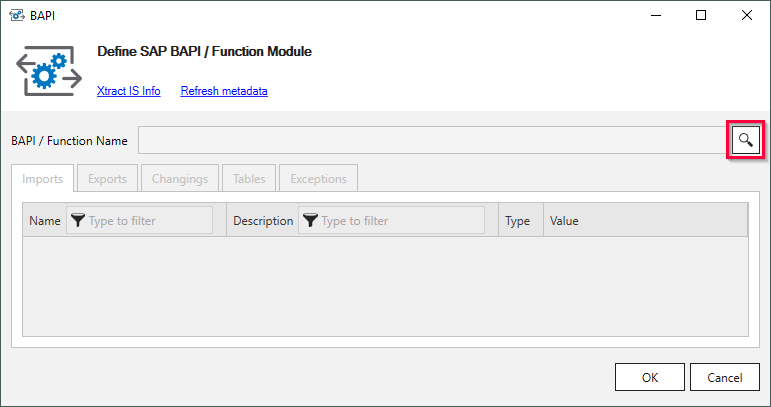
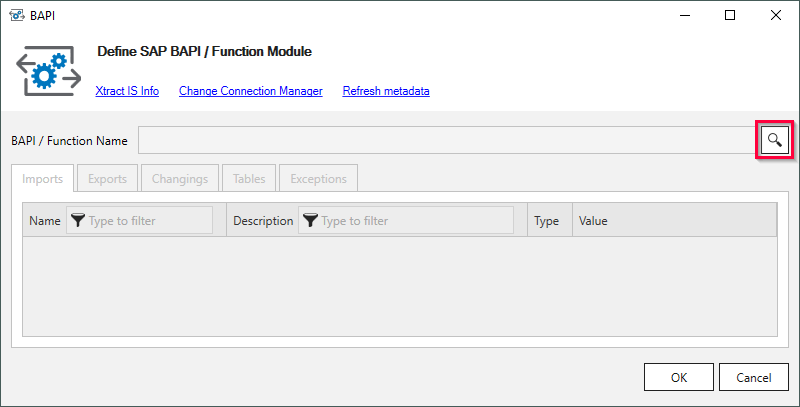
xfa bapi + related links

diff --git a/includes/components/bapis-and-function-modules/input-and-output.md b/includes/components/bapis-and-function-modules/input-and-output.md
@@ -132,19 +132,19 @@ To correctly map the data of an input table, the following requirements apply:
 
 - The column names of the input table must be the same as in the {{ bapi }} {{ component }}.
 - The data types in the input table must be the same as in the {{ bapi }} {{ component }}.
+Click **[:glasses-button:]** next to a table to look up column names and data types in the {{ bapi }} {{ component }}.
 
-Click **[:glasses-button:]** next to a table to look up column names and data types in the {{ bapi }} {{ component }}.<br>
-
-Follow the steps below to pass tables to {{ bapi }} at runtime:
+Follow the steps below to pass tables to the {{ bapi }} {{ component }} at runtime:
 1. Define or load the input tables into your workflow. 
 2. Connect the input tables to the {{ bapi }} {{ component }} using the input anchor "I". <br>
 The number that is displayed in the connection arrow is used to identify tables in the {{ bapi }} {{ component }}.<br>
-![bapi-input-table2](/img/content/xfa/bapi-input-table2.png){:class="img-responsive" }
+![bapi-input-table2](../../assets/images/{{ abbr }}/documentation/bapi/bapi-input-table.png){:class="img-responsive" }
 3. Open the {{ bapi }} {{ component }} and navigate to the table you want to parameterize.
 4. Select an input table from the dropdown list. <br>
-![bapi-input-table](/img/content/xfa/bapi-input-table.png){:class="img-responsive" }
+![bapi-input-table](../../assets/images/{{ abbr }}/documentation/bapi/bapi-input-table2.png){:class="img-responsive" }
 
-To remove an input table from a structure, click ![x-icon](/img/content/icons/x.png).
+To remove an input table from a structure, click **[:x-button:]**.
+
 {% endif %}
 
 
@@ -158,16 +158,3 @@ To ignore exceptions during runtime, deselect the exceptions in the **Exceptions
 
 ![BAPI Exceptions](../../assets/images/documentation/components/bapi/BAPI-Exceptions.png){:class="img-responsive"}
 
-{% if page.meta.product == "xtract-is" %}
-## Custom Properties of {{ bapi }}
-The *Custom Properties* are properties that are unique to the {{ component }}.
-When parameterizing the component using SSIS variables, the *Custom Properties* are overwritten.
-
-The *Custom Properties* of the {{ bapi }} {{ component }} are displayed in the "Properties" window.
-
-![BAPI Properties](../../assets/images/xis/documentation/bapi/bapi-properties.png)
-
-#### Commit Transaction 
-Some SAP Function Modules require calling the function module BAPI_TRANSACTION_COMMIT to successfully update data in the database, e.g., BAI_PO_CREATE. 
-To automatically call BAPI_TRANSACTION_COMMIT after the selected Function Module / BAPI is processed, aset this option to *true*.
-{% endif %}

diff --git a/includes/components/xfa-pass-parameters.md b/includes/components/xfa-pass-parameters.md
@@ -3,15 +3,16 @@
 
 Follow the steps below to replace {{ variables }} with actual values at runtime:
 
-1. [Create and assign runtime parameters](#create-runtime-parameters) in the Xtract {{ component }}.
-2. Close the Xtract {{ component }}.
+1. [Create and assign runtime parameters](#create-runtime-parameters) in the {{ page.meta.componentName }} {{ component }}.
+2. Close the {{ page.meta.componentName }} {{ component }}.
 3. Define the input values for the {{ variables }} :number-1:, e.g., single values or lists.<br>
 ![input](../../assets/images/xfa/documentation/{{ page.meta.componentFolder }}/input.png){:class="img-responsive" }
 4. Make sure that the data type of the input values match the data type of the corresponding {{ variable }}.
-5. Make sure that the name of the input matches the name of the corresponding runtime parameter, e.g, the values of the input *Parameter0* is automatically assigned to a runtime parameter by the same name.
-6. Connect the input to the Xtract {{ component }} using the input anchor "P" :number-2:.{% if page.meta.componentFolder == "bapi" %}<br>To pass input tables, use the input anchor "I", see [Mapping Input Tables](parameters.md#mapping-input-tables).{% endif %}
+5. Make sure that the name of the input matches the name of the corresponding {{ variable }}. The values of the input is automatically assigned to a {{ variable }} by the same name.
+6. Connect the input to the {{ page.meta.componentName }} {{ component }} using the input anchor "P" :number-2:.{% if page.meta.componentFolder == "bapi" %}<br>To pass input tables, use the input anchor "I", see [Mapping Input Tables](parameters.md#mapping-input-tables).{% endif %}
 7. Run the {{ extraction }} to test if the {{ variables }} are assigned correctly.
 
 !!! note 
 	Parameterization via input anchors is supported as of Xtract for Alteryx version 1.19. 
 	When using an older version of Xtract for Alteryx, parameterize Xtract components using batch macros, see [Parameterizing via Batch Macros](../../knowledge-base/parameterization-via-batch-macros.md).
+

diff --git a/projects/xtract-for-alteryx/docs/documentation/bapi/index.md b/projects/xtract-for-alteryx/docs/documentation/bapi/index.md
@@ -17,5 +17,27 @@ The {{ bapi }} {{ component }} can be used to parameterize and execute SAP funct
 
 {% include "/components/bapis-and-function-modules/define-a-bapi-extraction.md" %}
 
+### Input and Output Anchors
+
+The {{ bapi }} {{ component }} has the following input and output options:
+- Input anchor "I" - input for tables :number-1:.
+- Input anchor "P" - input for {{ variables }} :number-2:.
+- Output anchor "1" to "5" - custom output :number-3:.
+- Output anchor "E" - output for export parameters :number-4:.
+
+![bapi-input](../../assets/images/xfa/documentation/bapi/bapi-input.png){:class="img-responsive" }
+
+### Transaction Commit
+Some SAP Function Modules require calling the function module BAPI_TRANSACTION_COMMIT to successfully update data in the database, e.g., BAI_PO_CREATE. 
+To automatically call BAPI_TRANSACTION_COMMIT after the selected Function Module / BAPI is processed, activate the option **Commit work in SAP after execution** in the configuration menu of the {{ bapi }} {{ component }}.
+
+![import-parameters](../../assets/images/{{ abbr }}/documentation/bapi/xtract-bapi-commit-transaction.png){:class="img-responsive"}
+
 {% include "/components/bapis-and-function-modules/support-disclaimer.md" %}
 
+****
+#### Related Links
+- [Sample Workflows: Xtract BAPI](../../sample-workflows.md/#xtract-bapi)
+- [Knowledge Base Article: Create and Load Purchase Requisitions in SAP](../../knowledge-base/create-and-load-purchase-requisitions-in-sap.md)
+- [Knowledge Base Article: Read and Download SAP Attachment Files](../../knowledge-base/read-sap-attachment-files.md)
+- [Knowledge Base Article: Read Data from Cluster Fields in Tables PCL1 and PCL2 (Payroll)](../../knowledge-base/read-data-from-cluster-fields-in-the-tables-pcl1-and-pcl2-payroll.md)

diff --git a/projects/xtract-is/docs/documentation/bapi/change-connection-manager.md b/projects/xtract-is/docs/documentation/bapi/change-connection-manager.md
@@ -1,0 +1,25 @@
+---
+title: Change Connection Manager
+description: How to change the connection manager for Xtract BAPI
+---
+
+This page shows how to change the [XTRACT Connection Manager](../sap-connection/index.md/#connect-to-sap) that is assigned to an {{ bapi }} {{ component }}.
+
+### About XTRACT Connection Managers in {{ bapi }}
+
+An XTRACT connection Manager is automatically assigned or selected when you open the main window of the {{ bapi }} {{ component }} for the first time, see [Assign Connection Managers to Xtract Components](../sap-connection/index.md/#assign-connection-managers-to-xtract-components).
+Connection managers are usually changed in the *Advanced Editor* of a {{ component }}.
+Because the {{ bapi }} {{ component }} does not have an *Advanced Editor*, it is not possible to change the connection manager outside of the {{ component }}.
+
+### Change the XTRACT Connection Manager
+
+Follow the steps below to change the connnection manager of an {{ bapi }} {{ component }}:
+
+1. In the main window of the {{ bapi }} {{ component }}, click **Change Connection Manager**. 
+This option is only available when there is more than one defined XTRACT Connection Manager. The window "Select Connection Manager" opens.<br>
+![change-connection-manager](../../assets/images/xis/documentation/bapi/change-connection-manager.png){:class="img-responsive"}
+2. Select a Connection Manager from the drop-down-menu.<br>
+![select-connection-manager](../../assets/images/xis/documentation/sap-connection/select-connection-manager.png){:class="img-responsive"}
+3. Click **[OK]** to confirm your selection.
+
+The selected XTRACT connection manager is now assigned to the {{ bapi }} {{ component }}.

diff --git a/projects/xtract-is/docs/documentation/sap-connection/index.md b/projects/xtract-is/docs/documentation/sap-connection/index.md
@@ -12,26 +12,6 @@ An SAP connection is required to use any Xtract IS {{ component }}.
 
 {% include "/sap-connection/sap-auth-warning.md" %}
 
-<!---
-<div class="grid cards" markdown>
-
--   __Supported Connection Methods__
-
-    ---
-
-    - Connection to a single application server
-	- Connection to a message server (Load Balancing)
-
-
--   __Supported Authentication Methods__
-
-    ---
-	
-	- [Plain login](#plain-authentication) using SAP username and password (system or dialogue user)
-	- [Secure Network Communication (SNC)](#snc-authentication) using username and password via basic authentication
-
-</div>
--->
 	
 **Supported Connection Methods** 
 
@@ -52,8 +32,8 @@ Follow the steps below to create a connection manager that connects to SAP:
 The window "Add SSIS Connection Manager" opens.<br>
 ![Connection-Manager-01](../../assets/images/xis/documentation/sap-connection/Connection-Manager-01.png){:class="img-responsive"}
 3. Select the XTRACT Connection Manager from the list of available connection managers and click **[Add...]**. 
-The Xtract IS Connection manager is now available in the connection managers area.
-4. Double-click the Xtract IS Connection Manager. The window "Xtract IS Connection Manager" opens.<br>
+The XTRACT Connection Manager is now available in the connection managers area.
+4. Double-click the XTRACT Connection Manager. The window "XTRACT Connection Manager" opens.<br>
 ![Connection-Manager](../../assets/images/xis/documentation/sap-connection/Connection-Manager.png){:class="img-responsive" }
 5. Enter the system details of your SAP system and enter the SAP username and password of an SAP system or dialogue user.  
 

diff --git a/projects/xtract-is/docs/knowledge-base/snc-authentication-for-deltaq.md b/projects/xtract-is/docs/knowledge-base/snc-authentication-for-deltaq.md
@@ -14,7 +14,7 @@ This way, the communication between the application server and Xtract IS takes p
 Follow the steps below to enable SNC for the SAP user that is used in Xtract IS:
 
 1. Open SAP and run the SAP transaction SU01.
-2. Enter the name of the SAP user that is used in the Xtract IS connection manager and click **[Change]**. 
+2. Enter the name of the SAP user that is used in the XTRACT Connection Manager and click **[Change]**. 
 3. Open the SNC tab and provide the SNC Name of the SAP user :number-1:. In the depicted example, *MALAPATI* is the user and *THEOBALD.LOCAL* is the domain.<br>
 ![sap_user_settings_snc](../assets/images/xis/articles/sap_user_settings_snc.png){:class="img-responsive"}
 4. Click **[Save]**. 
@@ -27,7 +27,7 @@ Follow the steps below to enable SNC in Xtract IS:
 1. Open the Connection Manager of the SAP connection.
 2. Provide details of an SAP user that has SNC enabled :number-1:.<br>
 ![connection_manager](../assets/images/xis/articles/connection_manager.png){:class="img-responsive"}
-3. Click **Additions**. The window "Xtract IS Connection Manager Additions" opens.<br>
+3. Click **Additions**. The window "XTRACT Connection Manager Additions" opens.<br>
 	![connection_manager_addition](../assets/images/xis/articles/connection_manager_addition.png){:class="img-responsive"}
 	1. Check the box SNC :number-2:.
 	2. Enter the complete path of the Kerberos library in the field **SNC library 32 Bit** :number-3:.

diff --git a/projects/xtract-is/docs/documentation/bapi/index.md b/projects/xtract-is/docs/documentation/bapi/index.md
@@ -17,5 +17,22 @@ The {{ bapi }} {{ component }} can be used to parameterize and execute SAP funct
 
 {% include "/components/bapis-and-function-modules/define-a-bapi-extraction.md" %}
 
+### Custom Properties of {{ bapi }}
+The *Custom Properties* are properties that are unique to the {{ component }}.
+When parameterizing the component using SSIS variables, the *Custom Properties* are overwritten.
+
+The *Custom Properties* of the {{ bapi }} {{ component }} are displayed in the "Properties" window.
+
+![BAPI Properties](../../assets/images/xis/documentation/bapi/bapi-properties.png)
+
+#### Commit Transaction 
+Some SAP Function Modules require calling the function module BAPI_TRANSACTION_COMMIT to successfully update data in the database, e.g., BAI_PO_CREATE. 
+To automatically call BAPI_TRANSACTION_COMMIT after the selected Function Module / BAPI is processed, aset this option to *true*.
+
 {% include "/components/bapis-and-function-modules/support-disclaimer.md" %}
 
+****
+#### Related Links
+- [Knowledge Base Article: Create and Load Purchase Requisitions in SAP](../../knowledge-base/create-and-load-purchase-requisitions-in-sap.md)
+- [Knowledge Base Article: Write CATS Data to SAP](../../knowledge-base/write-cats-data-to-sap.md)
+- [Knowledge Base Article: Write Product Data to SAP](../../knowledge-base/write-product-data-to-sap.md)

diff --git a/includes/components/bapis-and-function-modules/define-a-bapi-extraction.md b/includes/components/bapis-and-function-modules/define-a-bapi-extraction.md
@@ -31,13 +31,3 @@ Select output by activating the checkbox next to the items.<br>
 5. Optional: If available, define which exceptions thrown by the Function Module / BAPI are ignored during runtime, see [Exceptions](parameters.md/#exceptions).
 {% if page.meta.product == "xtract-universal" or page.meta.product == "board-connector" %} 6. Check the [General Settings](general-settings.md) before running the extraction.{% endif %}
 7. Click **[OK]** to confirm your input.
-
-{% if page.meta.product == "xtract-for-alteryx" %}
-
-### Transaction Commit
-Some SAP Function Modules require calling the function module BAPI_TRANSACTION_COMMIT to successfully update data in the database, e.g., BAI_PO_CREATE. 
-To automatically call BAPI_TRANSACTION_COMMIT after the selected Function Module / BAPI is processed, activate the option **Commit work in SAP after execution** in the configuration menu of the {{ bapi }} {{ component }}.
-
-![import-parameters](../../assets/images/{{ abbr }}/documentation/bapi/xtract-bapi-commit-transaction.png){:class="img-responsive"}
-
-{% endif %}

diff --git a/projects/xtract-is/docs/getting-started.md b/projects/xtract-is/docs/getting-started.md
@@ -35,8 +35,8 @@ Create a new connection manager.
 
 1. Right-click in the connection managers within “Solution Explorer” area and choose New connection Manager. The window “Add SSIS Connection Manager” opens.
 Connection-Manager-01
-2. Select the XTRACT Connection Manager from the list and click [Add]. Xtract IS Connection manager appears under the tab Connection Managers.
-3. To configure the SAP connection, double-click the Xtract IS Connection Manager icon. The window “Xtract IS Connection Manager” opens
+2. Select the XTRACT Connection Manager from the list and click [Add]. XTRACT Connection Manager appears under the tab Connection Managers.
+3. To configure the SAP connection, double-click the XTRACT Connection Manager icon. The window “XTRACT Connection Manager” opens
 3. Enter the system details of your SAP system and the SAP credentials of the SAP dialog user.
 5. Click **[Test Connection]** to validate the connection parameters. A window with a status message opens.
 6. Click **[OK]** to save the connection settings. <br>

diff --git a/projects/xtract-is/docs/documentation/sap-connection/snc-authentication.md b/projects/xtract-is/docs/documentation/sap-connection/snc-authentication.md
@@ -17,7 +17,7 @@ Follow the steps below to set up an SAP connection that uses SNC:
 	!!! tip
 		Input values for the SAP connection can be found in the Properties of the SAP Logon Pad or they can be requested from the SAP Basis team.
 	
-3. In the "Xtract IS Connection Manager" window, click **Additions**. The window "Xtract IS Connection Manager Additions" opens.
+3. In the "XTRACT Connection Manager" window, click **Additions**. The window "XTRACT Connection Manager Additions" opens.
 4. Activate the option **SNC enabled**.<br>
 ![SNC](../../assets/images/xis/documentation/sap-connection/snc-connection-manager.png){:class="img-responsive"}
 5. Enter the path to the SNC library for 32 Bit & 64 Bit in the **SNC library** fields, e.g., `C:\Program Files (x86)\SAP\FrontEnd\SecureLogin\sapcrypto.dll`.

diff --git a/projects/xtract-universal/docs/documentation/table/index.md b/projects/xtract-universal/docs/documentation/table/index.md
@@ -18,3 +18,9 @@ The {{ table }} {{ component }} can be used to extract data from SAP Tables and 
 {% include "components/table/define-a-table-extraction.md"  %}
 
 {% include "components/table/restrictions.md"  %}
+
+****
+#### Related Links
+- [Knowledge Base Article: Change Data Capture with CDHDR](../../knowledge-base/change-data-capture-with-cdhdr.md)
+- [Knowledge Base Article: Delta Table Extraction](../../knowledge-base/delta-table-extraction.md)
+- [Knowledge Base Article: Read data from Cluster Fields in Tables PCL1 and PCL2 (Payroll)](../../knowledge-base/read-data-from-cluster-fields-in-the-tables-pcl1-and-pcl2-payroll.md)

diff --git a/projects/xtract-is/docs/documentation/sap-connection/settings.md b/projects/xtract-is/docs/documentation/sap-connection/settings.md
@@ -48,8 +48,8 @@ A window with a status message opens in the bottom right corner of the window.
 
 The "Additions" menu contains settings for Secure Network Communication (SNC), as well as some expert options.
 
-In the window "Xtract IS Connection Manager" click **Additions**. 
-The window "Xtract IS Connection Manager Additions" opens.
+In the window "XTRACT Connection Manager" click **Additions**. 
+The window "XTRACT Connection Manager Additions" opens.
 
 ![SNC](../../assets/images/xis/documentation/sap-connection/snc-connection-manager.png){:class="img-responsive"}
 
